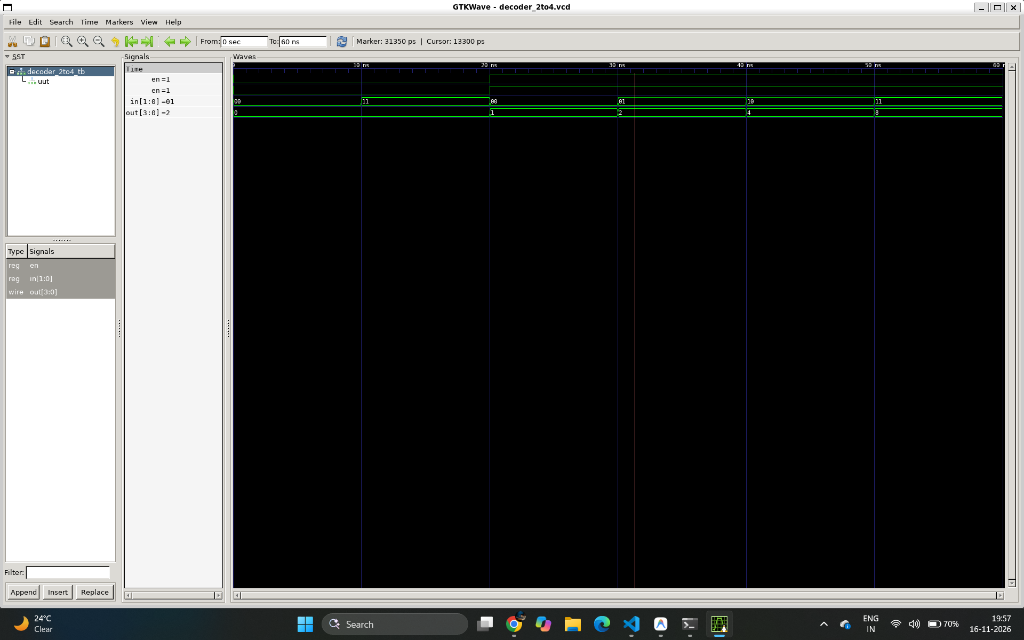
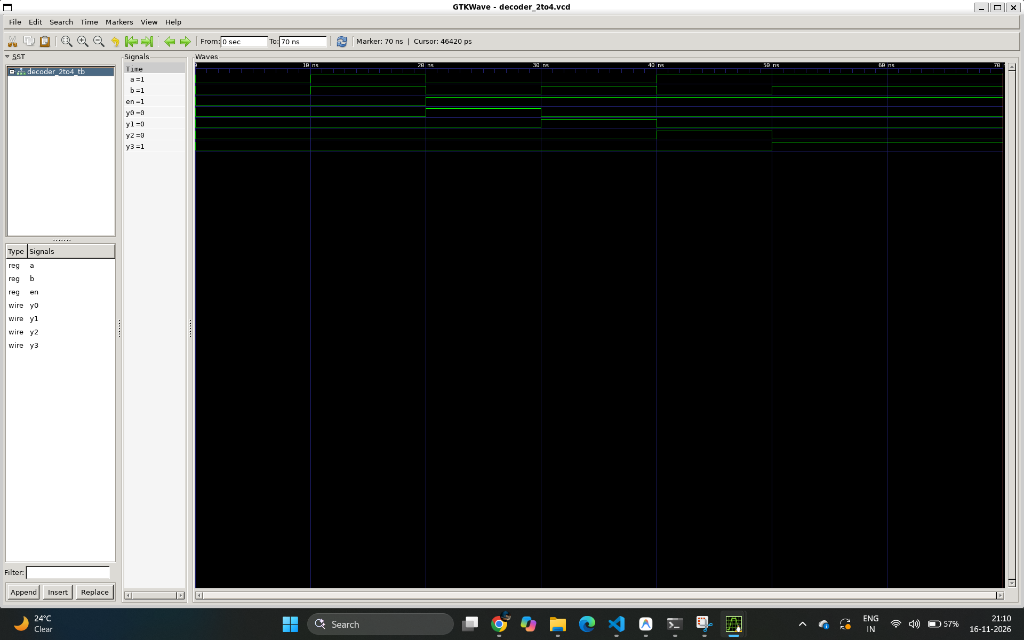
docs: integrate detailed GTKWave waveform analysis with separated signals

diff --git a/01_rtl_simulation_and_synthesis/README.md b/01_rtl_simulation_and_synthesis/README.md
@@ -45,6 +45,16 @@ vvp decoder_sim.vvp
 gtkwave decoder_2to4.vcd &
 ```
 
+### Behavioral Simulation Waveform:
+![GTKWave Behavioral Simulation](docs/images/waveform.png)
+
+#### Waveform Analysis:
+* **0 to 20 ns (`en = 0`)**: The circuit is disabled. All output lines (`y0`, `y1`, `y2`, `y3`) remain at logic `0` regardless of input states.
+* **20 to 30 ns (`en = 1`, `a = 0`, `b = 0`)**: Address `00` selected $\rightarrow$ `y0` transitions to `1`.
+* **30 to 40 ns (`en = 1`, `a = 0`, `b = 1`)**: Address `01` selected $\rightarrow$ `y1` transitions to `1`.
+* **40 to 50 ns (`en = 1`, `a = 1`, `b = 0`)**: Address `10` selected $\rightarrow$ `y2` transitions to `1`.
+* **50 to 60 ns (`en = 1`, `a = 1`, `b = 1`)**: Address `11` selected $\rightarrow$ `y3` transitions to `1`.
+
 ---
 
 ## ⚙ Logic Synthesis & Silicon Technology Mapping
